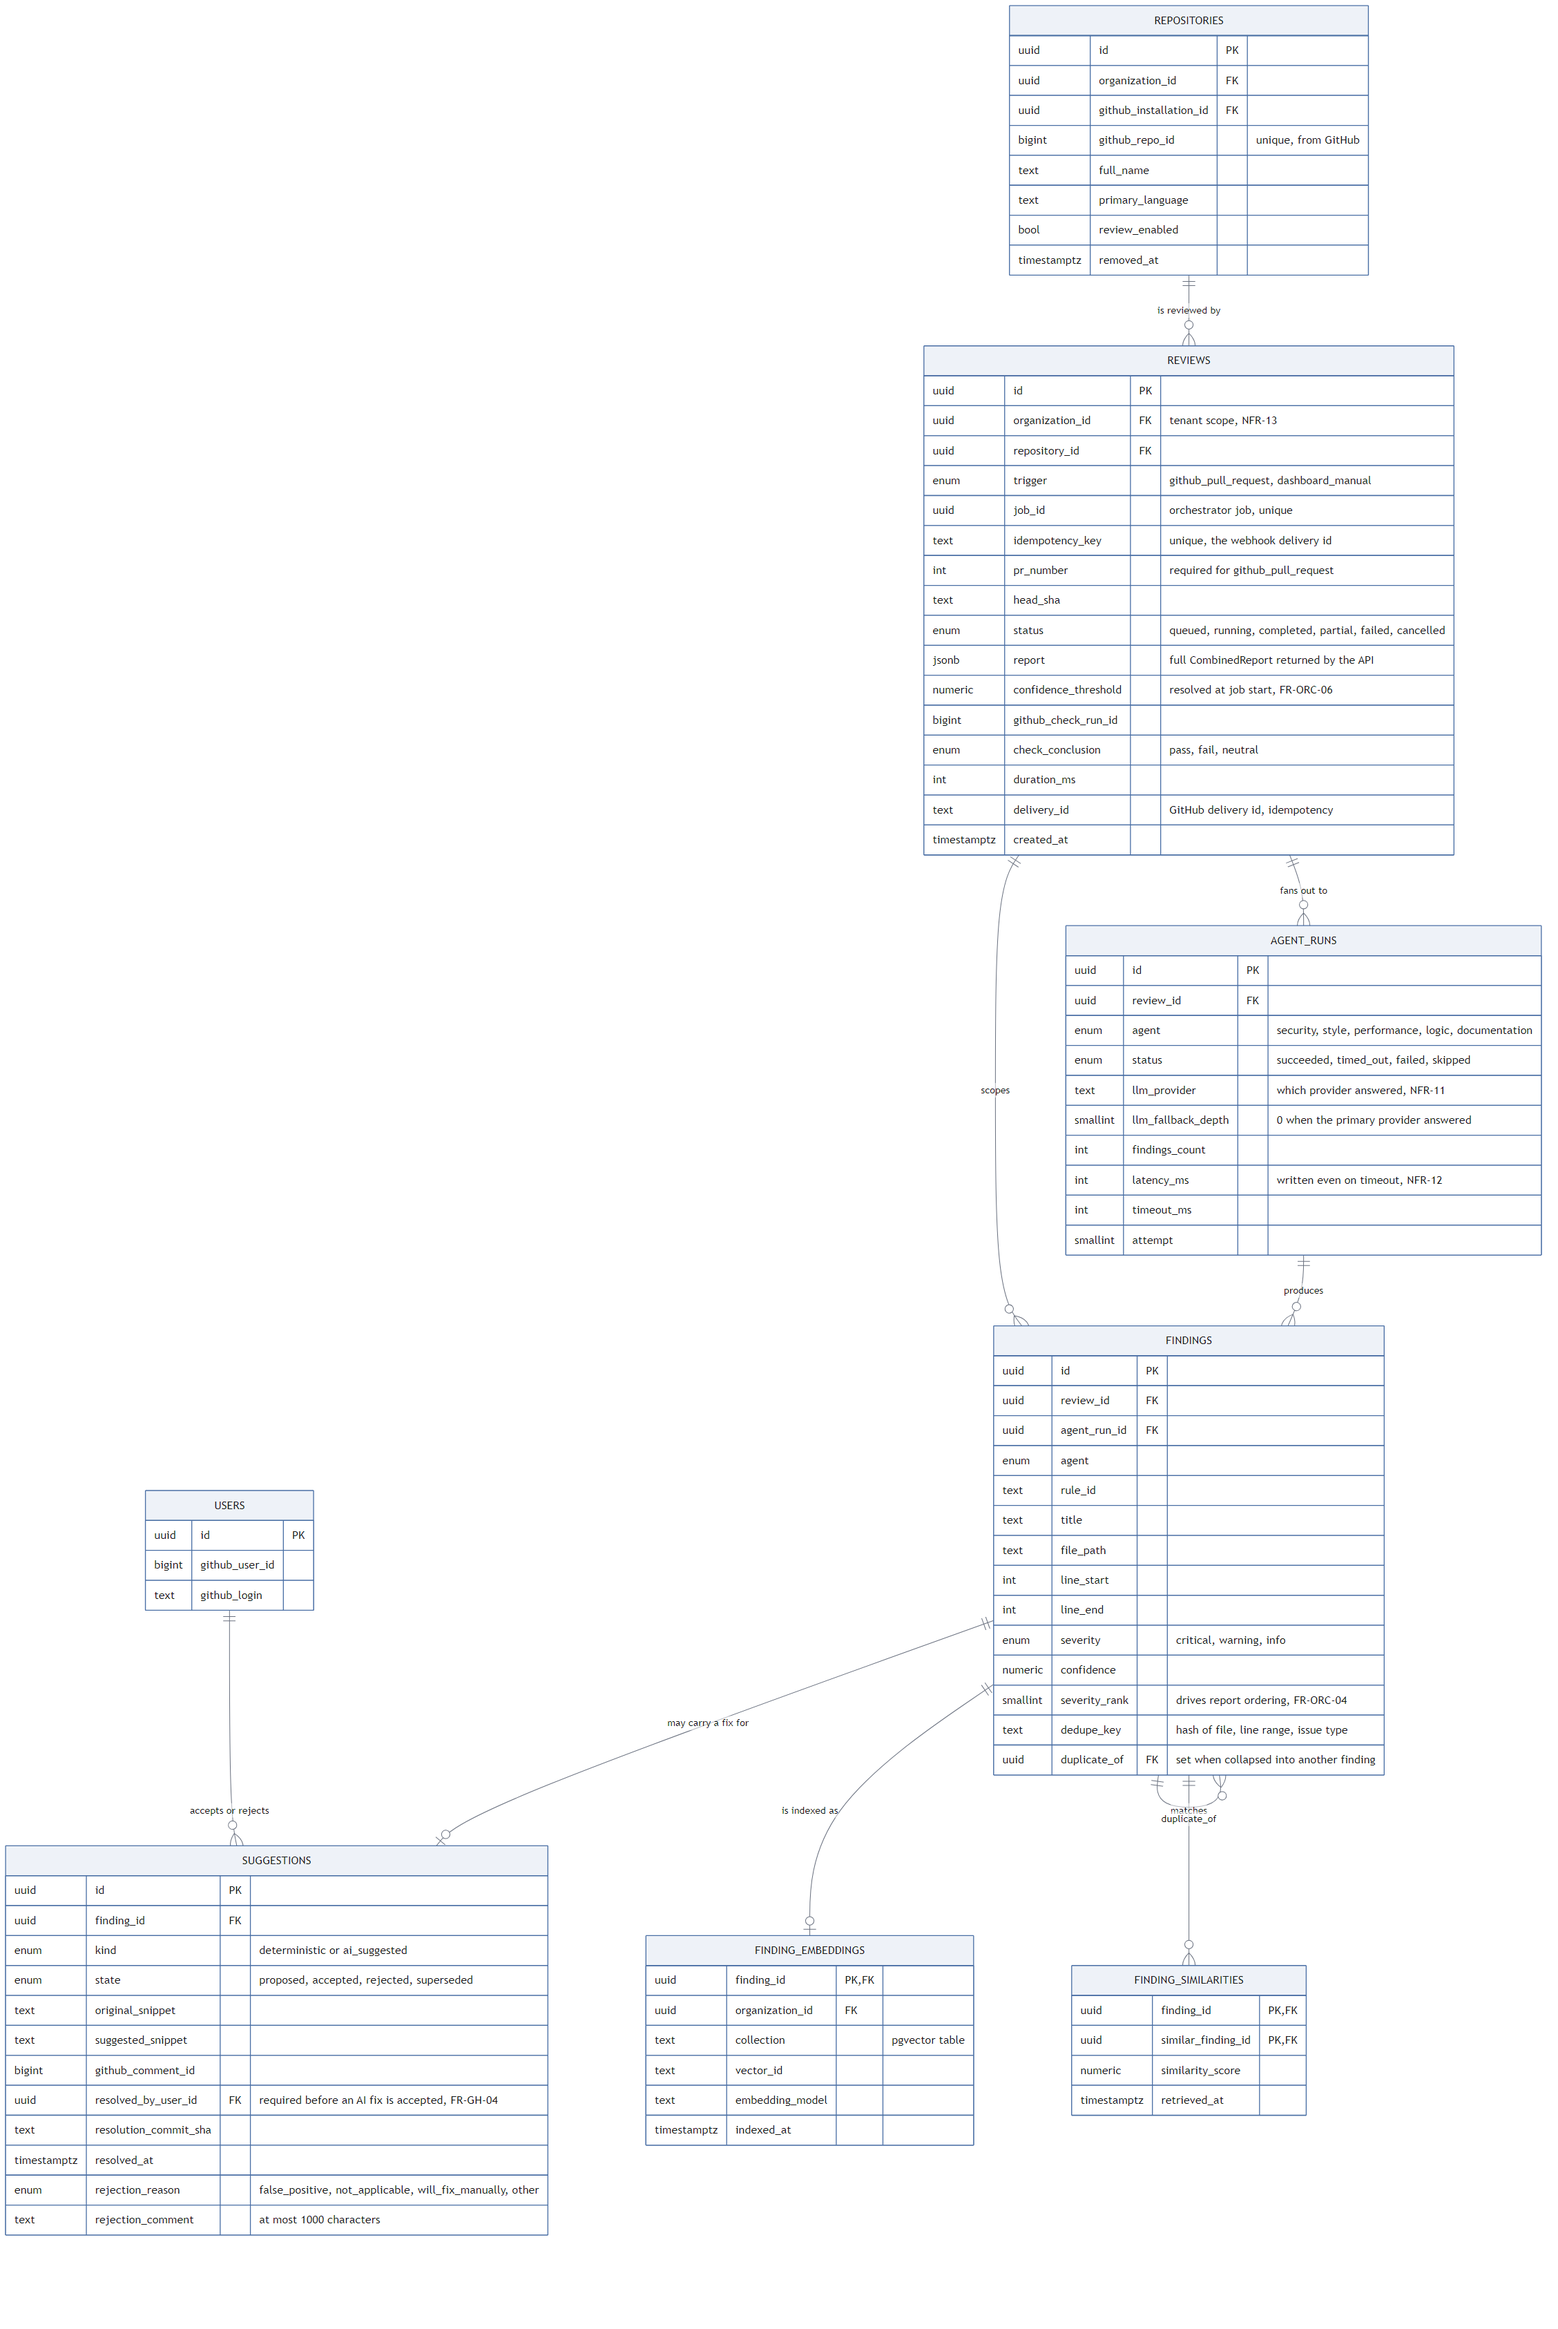
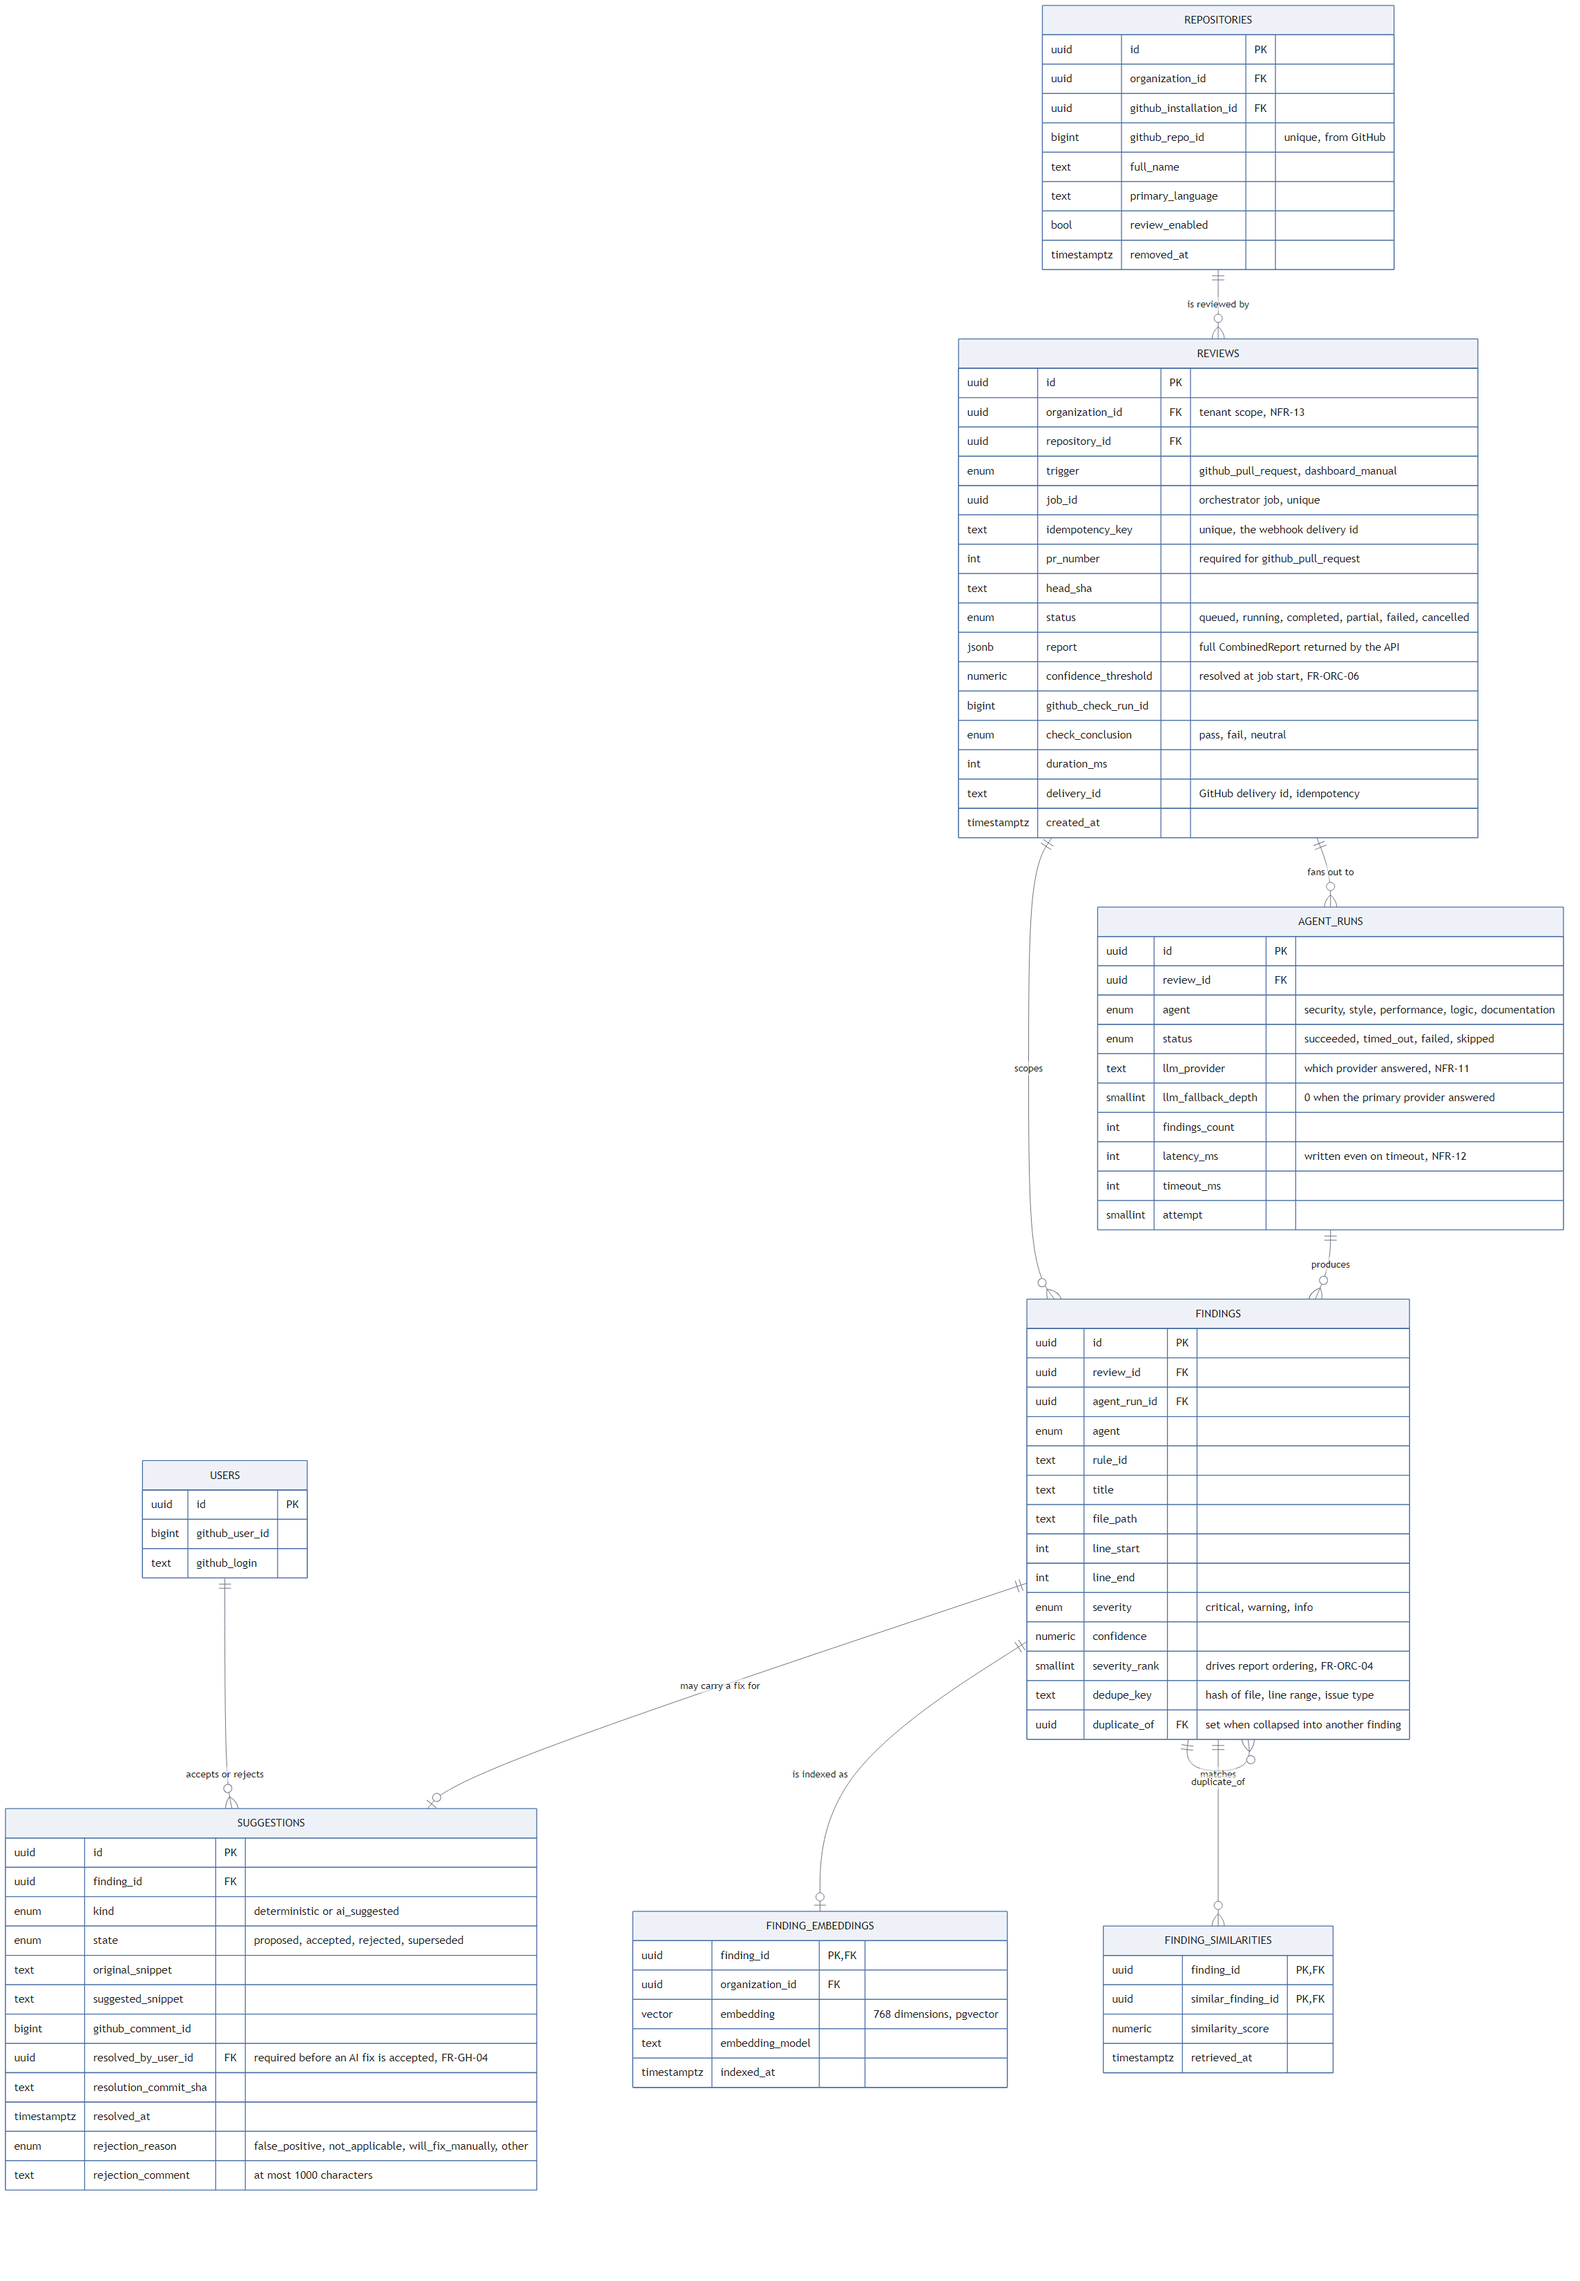
Store embeddings with pgvector

diff --git a/packages/db/README.md b/packages/db/README.md
@@ -30,6 +30,7 @@ changes for Supabase Auth and job persistence:
 | `agent_mode` (`off` / `comment` / `block`) replaces `repository_agent_config.enabled` (false → off, true → comment); `organization_agent_defaults`; `repositories.use_org_defaults`; `review_branches` on `repository_settings` and `default_review_branches` on `organizations` (migration `20261012100000`) | Each agent can comment only or block the merge per repository, organizations set defaults, and each repository picks which base branches get reviewed (A9) |
 | `reviews.job_id`, `idempotency_key`, `report` (JSONB), `error` (JSONB); status `cancelled` | The orchestrator's job store lives in `reviews`, and the API answers from one row |
 | `api_keys` and the editor review trigger removed; `review_trigger` is `github_pull_request` or `dashboard_manual` (migration `20261014120000`) | There is no editor client; every caller is the GitHub App or a signed-in dashboard user |
+| `finding_embeddings`: `collection` / `vector_id` (Chroma) replaced by `embedding vector(768)`, the `vector` extension enabled (migration `20261017100000`) | pgvector in the same database replaces ChromaDB. Search is exact over one organization's rows (`idx_embeddings_org`): an HNSW index filters after the nearest-neighbour step and can miss matches, and Prisma can't declare one |
 | `organizations.default_review_branches` removed; repositories that followed a non-empty list and had none of their own get it copied into `repository_settings.review_branches` (migration `20261016100000`) | Branches to review are set per repository only; an organization default made the list hard to find and edit |
 
 Prisma can't express the CHECK constraints or row-level security, so they are hand-written at the
